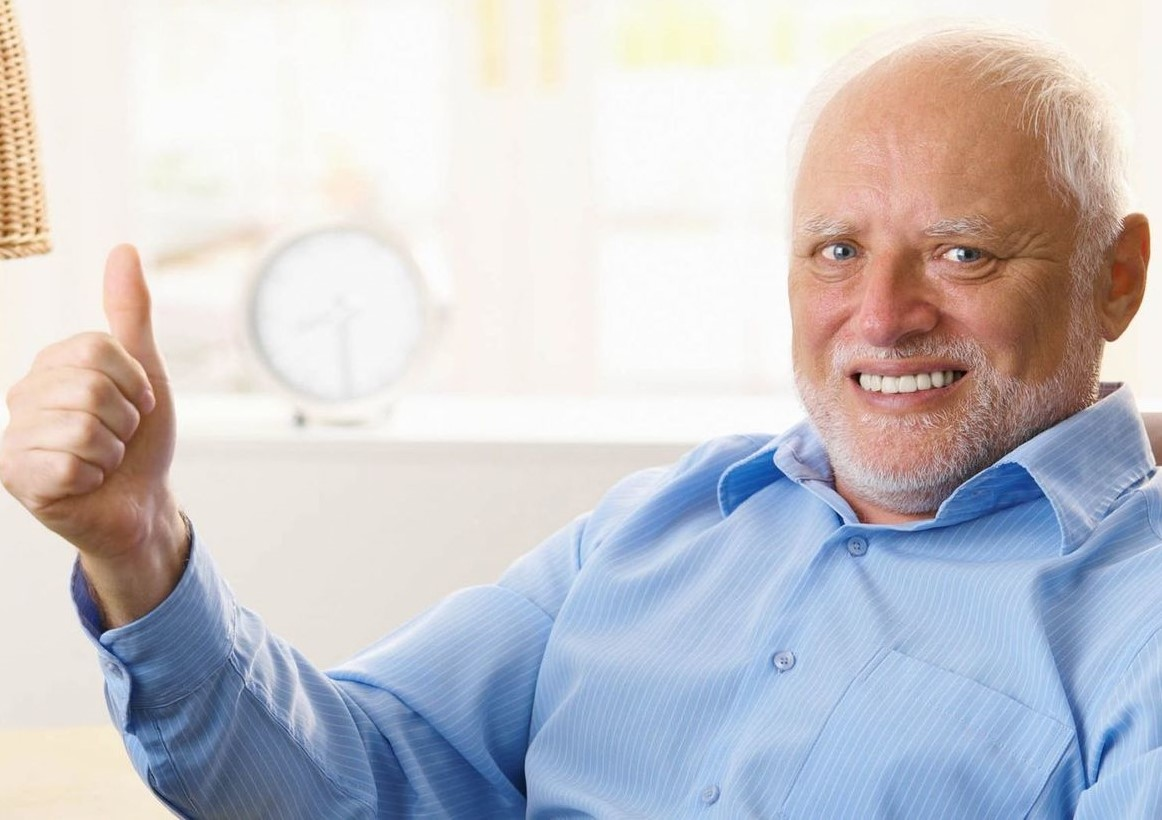
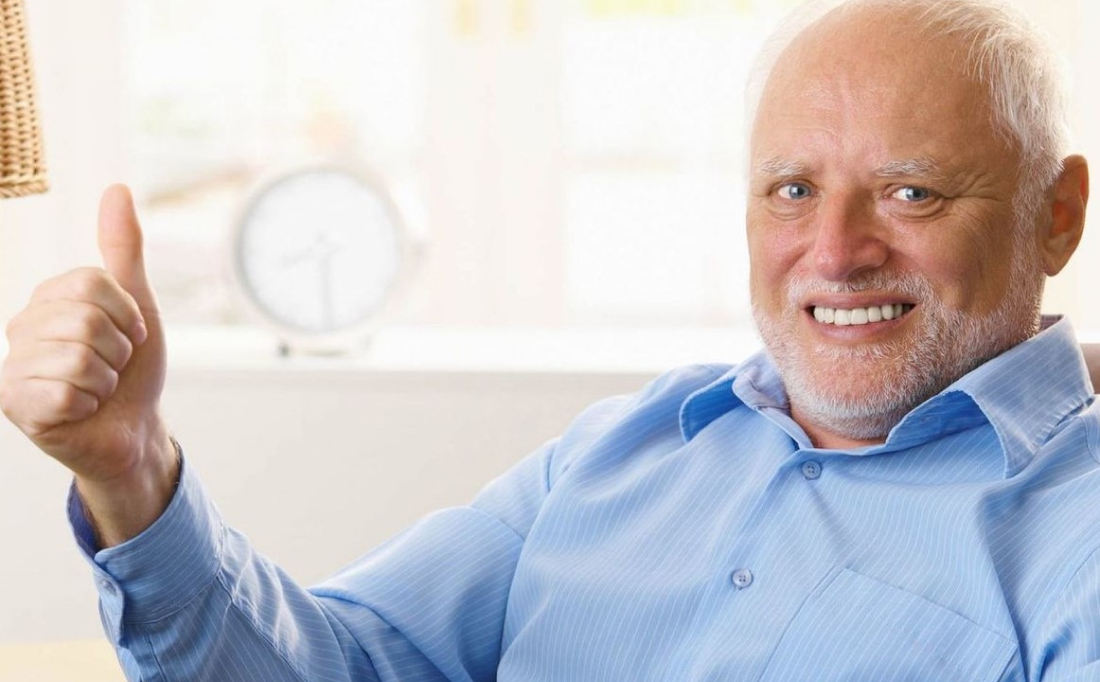
refactor: change size images (Mon, May 16, 2022 08:54:27 PM)

diff --git a/cssMemSlider/style.css b/cssMemSlider/style.css
@@ -33,12 +33,11 @@ body {
   display: grid;
   grid-template-areas: "slide slide"
                        "tex control";
-  grid-template-columns: 70% 30%;
-  grid-template-rows: 34rem 5rem;
-  max-width: 50rem;
-  padding: 2% 0 0 0;
-  row-gap: 2rem;
-  height: 100vh;
+  grid-template-columns: 75% 25%;
+  grid-template-rows: 1fr 5rem;
+  grid-row-gap: 2rem;
+  max-width: 60rem;
+  padding: 0 5% 0 5%;
   margin: 0 auto;
 }
 
@@ -48,8 +47,8 @@ body {
 
 .slider {
   grid-area: slide;
+  width: 100%;
   margin: 0 auto;
-  width: 50rem;
   overflow: hidden;
   border-radius: 1rem;
 }
@@ -57,12 +56,14 @@ body {
 .images {
   display: flex;
   margin: 0 auto;
-  width: 50rem;
+  width: 400%;
 }
 
 .img {
-  width: 50rem;
-  height: 100%;
+  width: 100%;
+  object-fit: cover;
+  height: auto;
+  border-radius: 1rem;
 }
 
 #inp1:checked ~ .slider > .images {
@@ -200,27 +201,15 @@ body {
                          "control"
                          "tex";
     grid-template-columns: 1fr;
-    grid-template-rows: 20rem 2rem 2rem;
-    max-width: 30rem;
+    grid-template-rows: 1fr 2rem 2rem;
     row-gap: 2rem;
-  }
-
-  .slider {
-    width: 30rem;
-  }
-  
-  .images {
-    width: 30rem;
-  }
-  
-  .img {
-    width: 30rem;
   }
 
   #controls {
     column-gap: 2rem;
+    align-items: center;
     max-width: 30rem;
-    margin: auto auto;
+    margin: 0 auto;
   }
 
   #controls .baground-label {
@@ -230,42 +219,19 @@ body {
 
   #wrap-text {
     margin: auto 0;
-}
+  }
 }
 
 @media (max-width: 500px) {
-  .wrapper {
-    grid-template-rows: 10rem 2rem 2rem;
-    max-width: 19rem;
-    row-gap: 1.5rem;
-  }
-
-  .slider {
-    width: 19rem;
-  }
-  
-  .images {
-    width: 19rem;
-  }
-  
-  .img {
-    width: 19rem;
-  }
-
-  #controls {
-    column-gap: 1.5rem;
-  }
 
   #controls .baground-label {
-    min-width: 2rem;
-    height: 2rem;
+    min-width: 1.5rem;
   }
 
   .box-text {
     max-width: 18rem;
     gap: 5rem;
   }
-
 
   #inp1:checked ~ #wrap-text .text1 {
     margin-left: 0;
